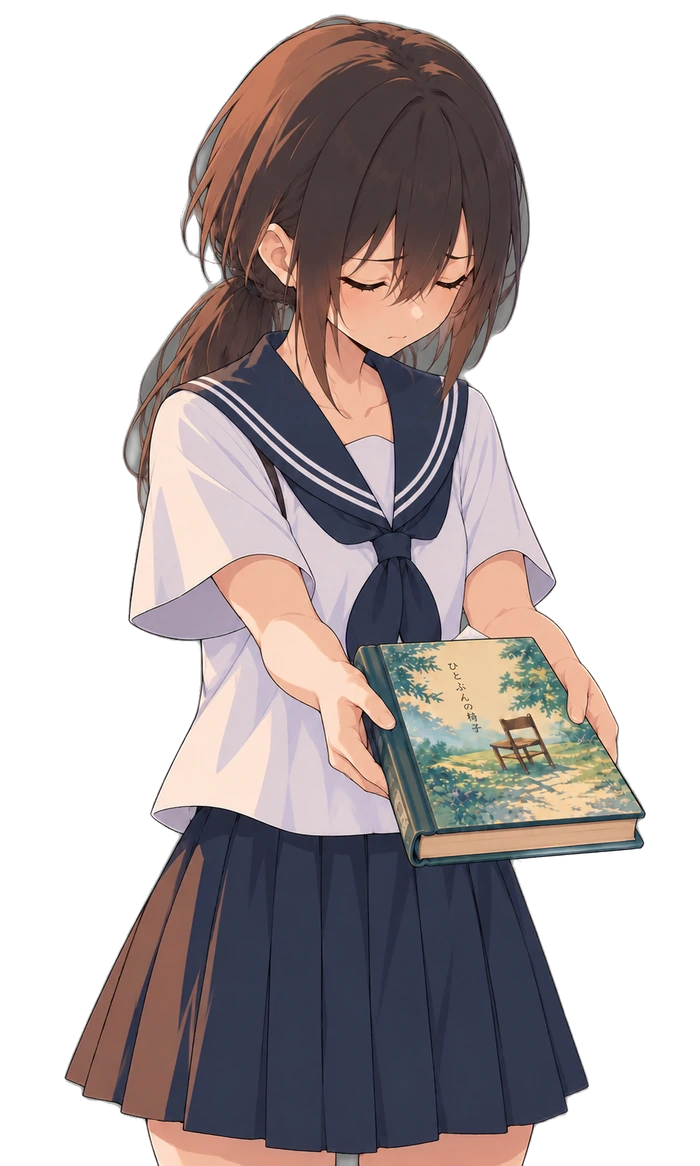
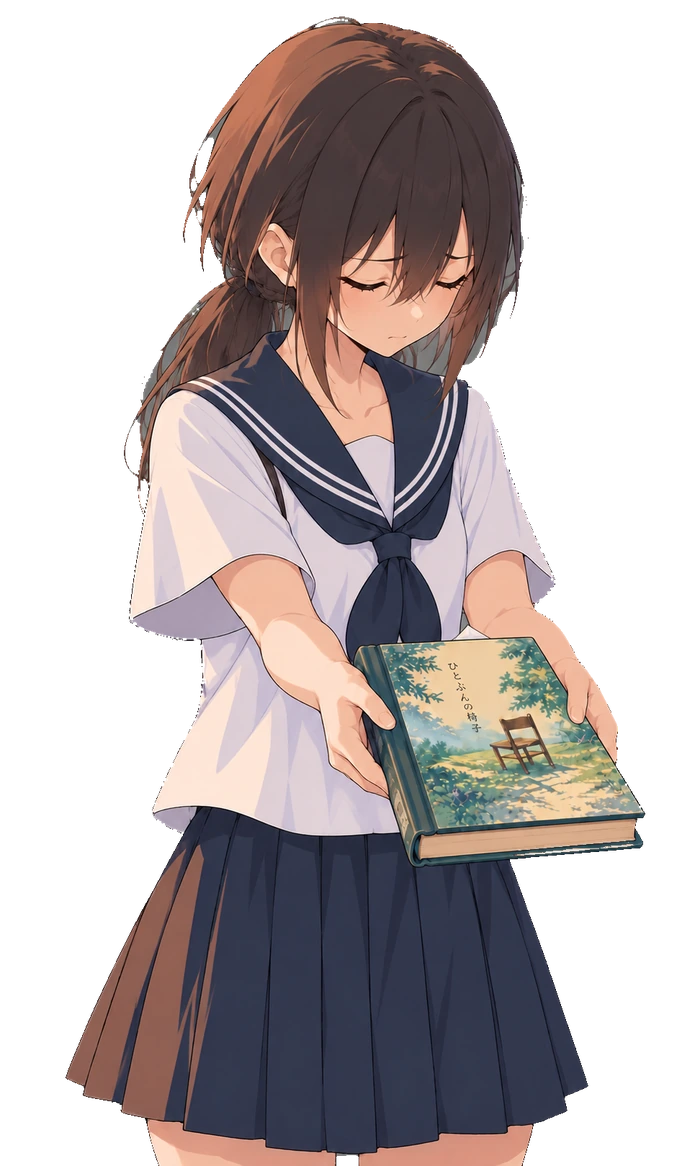
ミオ：本を握りしめる差分・差し出す悲しい顔を新ポーズに／膝に下ろした後は真剣な顔のまま／静かな決別は曲を通しで／背景抜きの見直し

diff --git a/index.html b/index.html
@@ -4153,7 +4153,7 @@
     sit: { src: 'mio_sit', style: 'left:12.2%;top:42.0%;height:46.5%' },
     // 消えたあと机に残る本（わすれものの絵と同じ本を、背景の机に合わせて置いた重ね絵）
     leftover: '', leftoverImg: 'l_left',
-    faces: { pale: 'mio_pale', normal: 'mio_bust', angry: 'mio_angry', surprise: 'mio_surprise', sad: 'mio_sad', down: 'mio_down', smile: 'mio_smile', grief: 'mio_grief', despair: 'mio_despair', reject: 'mio_reject', shadow: 'mio_despair', crySmile: 'mio_crysmile', bookHide: 'mio_bookhide', softSmile: 'mio_softsmile', stroke: 'mio_stroke', strokeDown: 'mio_strokedown', lap: 'mio_lap' },   // lap：本を膝の上に下ろして、小さく決意した顔
+    faces: { pale: 'mio_pale', normal: 'mio_bust', angry: 'mio_angry', surprise: 'mio_surprise', sad: 'mio_sad', down: 'mio_down', smile: 'mio_smile', grief: 'mio_grief', despair: 'mio_despair', reject: 'mio_reject', shadow: 'mio_despair', crySmile: 'mio_crysmile', bookHide: 'mio_bookhide', softSmile: 'mio_softsmile', stroke: 'mio_stroke', strokeDown: 'mio_strokedown', lap: 'mio_lap', clench: 'mio_clench' },   // lap：本を膝の上に下ろして小さく決意した顔／clench：本を強く握りしめ、目をぎゅっとつむった悲痛な顔
     lost: '返却期限の過ぎた一冊',
     // 時計のアップ絵（針は重ねて描く）。体育館は ci_clock_gym（cx:868, cy:448, s:0.86）、保健室は ci_clock_infirmary（cx:782, cy:430, s:1.01）を使う。背景 infirmary の壁の時計は bgClock: { cx: 829, cy: 202, rx: 49, ry: 48 }
     clock: { img: 'ci_clock_library', cx: 778, cy: 411, s: 0.84 },
@@ -4501,9 +4501,9 @@
                  ['ミオ', '考えるより先に、手が動いてた。……黒板に、書いた。『いてもいなくても同じ』って', 'sad'],
                  ['ミオ', '中学のとき、私の机に書いた子たちのこと、ずっと許せなかった。私だけは、絶対にあんなことしないって思ってた', 'sad'],
                  ['ミオ', '……チョークを持ったとき、きっと、あのときの子たちと同じ顔をしてた', 'sad'],
-                 ['', 'ミオは、本の背を、指が白くなるほど握りしめた。', 'down'],
-                 ['ミオ', '中学のとき、誰も助けてくれなかった。だから、自分だけは自分の味方でいようって、決めてたの', 'down'],
-                 ['ミオ', '……その自分に、裏切られた。もう、誰のことも……私のことも、信じられない', 'grief'],
+                 ['', 'ミオは、本の背を、指が白くなるほど握りしめた。', 'clench'],
+                 ['ミオ', '中学のとき、誰も助けてくれなかった。だから、自分だけは自分の味方でいようって、決めてたの', 'clench'],
+                 ['ミオ', '……その自分に、裏切られた。もう、誰のことも……私のことも、信じられない', 'clench'],
                  ['ミオ', '何を感じてたのかも、もうわからない。……ただ、眉ひとつでも動かしたら、見つかって、目をつけられる気がしてた', 'sad'],
                  ['ミオ', '書き終わって席に戻ったころに、ツムギが教室に入ってきたの。黒板の字を見て、何も言わないで、そのまま帰った', 'sad'],
                  ['ミオ', '誰が書いたのかは、知らないまま。……次の日から、教室に来なくなった', 'sad'],
@@ -4581,7 +4581,7 @@
       bgm('musicbox');
       await say([['ミオ', '……届けなきゃ。この本', 'lap'],
                  ['ミオ', 'ツムギのところに。……それから、あの黒板の字は、私が書いたって、言う', 'lap'],
-                 ['ミオ', '許してもらえなくても。……言わなきゃいけないこと、だから', 'crySmile']]);
+                 ['ミオ', '許してもらえなくても。……言わなきゃいけないこと、だから', 'lap']]);
       R.st = 'unraveled'; R.standing = true; render();  // ミオはカウンターへ立っていく
       bgm('unravel');
       await say([`……張りつめていた部屋の空気が、ふっとゆるんだ気がした。時計は${$('#clock').textContent}。チャイムは、まだ鳴らない。`, ['ミオ', '……ねえ。カウンターのペン、取ってくれる？', 'softSmile']]);
@@ -5970,7 +5970,7 @@
                  '扉が、静かに閉まった。', ['ツムギ', '……またね、って、言えなかった', 'grief'], 'ツムギは、閉まった扉を、ずっと見つめていた。']);
     }
     await say(['長いあいだ、ツムギは何も言わなかった。窓の外の夕日が、少しずつ低くなっていく。',
-               'やがて、ツムギは本を開いて、しおりの手紙を、もう一度だけ読んだ。', () => bgm('farewellLate'),
+               'やがて、ツムギは本を開いて、しおりの手紙を、もう一度だけ読んだ。',
                ['ツムギ', '……でも、今日は、自分で決めたい', 'down'], ['ツムギ', '……図書室、行ってみる。あの子の椅子に、座ってみたいの', 'crySmile']]);
     R.st = 'unraveled'; render();
     await say([`ツムギは、涙のあとを手の甲でぬぐって、立ち上がった。時計は${$('#clock').textContent}。チャイムは、まだ鳴らない。`]);
